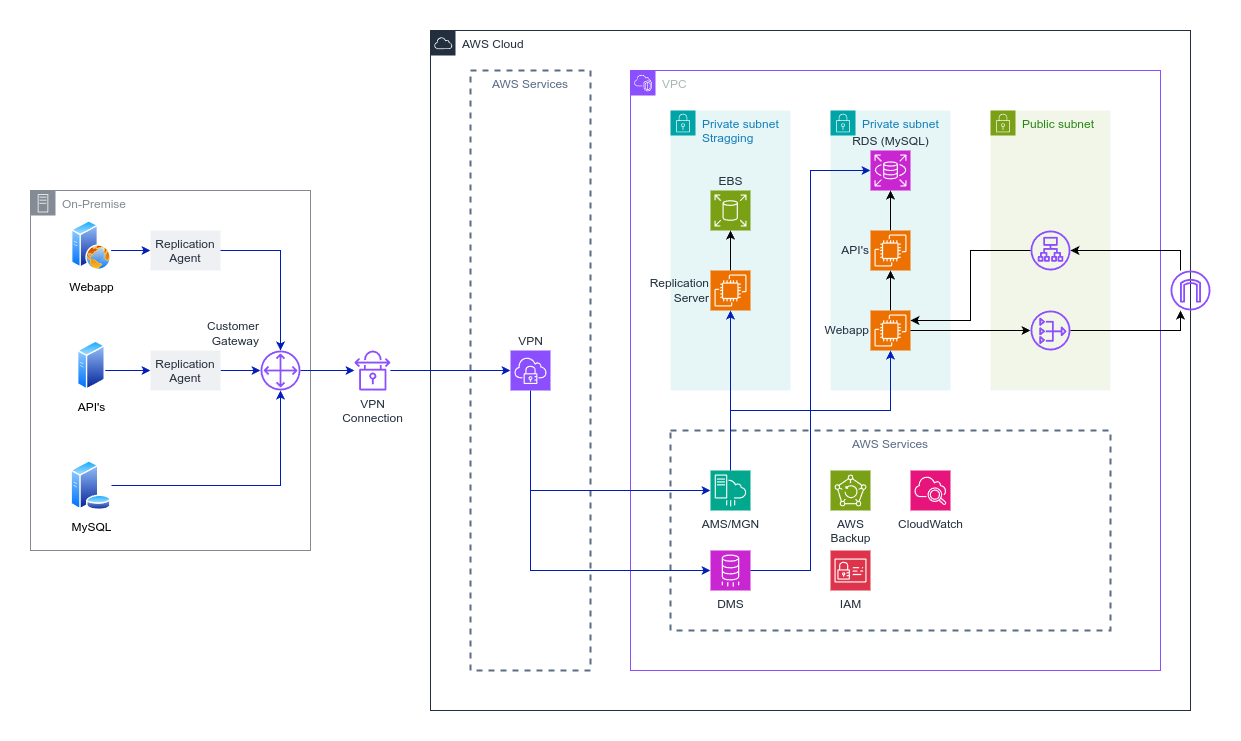
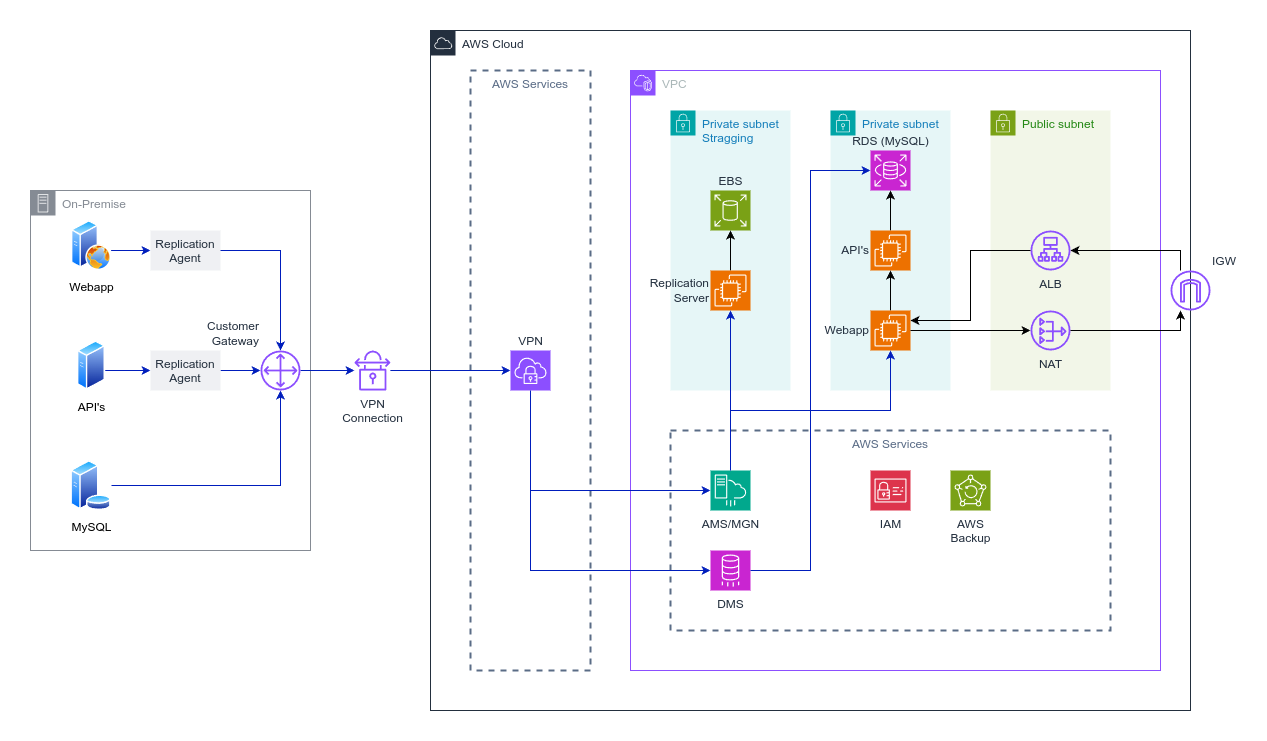
feat: adiciona nova image e parte inicial da modernização

diff --git a/README.md b/README.md
@@ -84,16 +84,15 @@ Análise e comparação dos serviços utilizando na empresa com as oferencidas p
 |                    <img src="https://icon.icepanel.io/AWS/svg/Database/RDS.svg" width="40">                    | RDS (MySQL)   | Servidor 2 (Banco de Dados) |
 | <img src="https://icon.icepanel.io/AWS/svg/Networking-Content-Delivery/Elastic-Load-Balancing.svg" width="40"> | Load Balancer | Servidor 3 (Nginx)          |
 
-Serviços extras:
+#### Serviços extras:
 
 |                                                       -                                                       | Serviços                                                     |
 | :-----------------------------------------------------------------------------------------------------------: | ------------------------------------------------------------ |
 | <img src="https://icon.icepanel.io/AWS/svg/Security-Identity-Compliance/IAM-Identity-Center.svg" width="40">  | IAM                                                          |
 |            <img src="https://icon.icepanel.io/AWS/svg/Storage/Elastic-Block-Store.svg" width="40">            | EBS                                                          |
 | <img src="https://icon.icepanel.io/AWS/svg/Networking-Content-Delivery/Virtual-Private-Cloud.svg" width="40"> | VPC <br> <sub>+ Subnets, Route Table e Security Groups</sub> |
-|         <img src="https://icon.icepanel.io/AWS/svg/Management-Governance/CloudWatch.svg" width="40">          | CloudWatch                                                   |
 
-Serviços que serão utilizados durante a migração:
+#### Serviços que serão utilizados durante a migração:
 
 |                                                      -                                                       | Serviço                             |
 | :----------------------------------------------------------------------------------------------------------: | ----------------------------------- |
@@ -102,13 +101,33 @@ Serviços que serão utilizados durante a migração:
 |       <img src="https://icon.icepanel.io/AWS/svg/Database/Database-Migration-Service.svg" width="40">        | Database Migration Service (DMS)    |
 | <img src="https://icon.icepanel.io/AWS/svg/Migration-Transfer/Application-Migration-Service.svg" width="40"> | Application Migration Service (MGN) |
 
-Diagrama de Migração:
+#### Diagrama de Migração:
 
 <div align="center">
 
 ![Diagrama da Migração](./assets/AWS-Migration.png)
 
 </div>
+
+#### Custo total (Migração)
+
+|                                                      -                                                       | **Serviço**            | **Custo (3 dias)**        |
+| :----------------------------------------------------------------------------------------------------------: | ---------------------- | ------------------------- |
+|                   <img src="https://icon.icepanel.io/AWS/svg/Compute/EC2.svg" width="40">                    | AWS EC2 – Webapp       | ~ 0.88 USD                |
+|                   <img src="https://icon.icepanel.io/AWS/svg/Compute/EC2.svg" width="40">                    | AWS EC2 – API's        | ~ 1.76 USD                |
+|       <img src="https://icon.icepanel.io/AWS/svg/Database/Database-Migration-Service.svg" width="40">        | AWS DMS (1 instância)  | ~ 16.62 USD               |
+| <img src="https://icon.icepanel.io/AWS/svg/Migration-Transfer/Application-Migration-Service.svg" width="40"> | AWS MGN (2 servidores) | ~ 3.02 USD                |
+|      <img src="https://icon.icepanel.io/AWS/svg/Networking-Content-Delivery/Client-VPN.svg" width="40">      | VPN Site-to-site       | ~ 1.00 USD                |
+|                  <img src="https://icon.icepanel.io/AWS/svg/Storage/Backup.svg" width="40">                  | AWS Backup             | ~ 0.32 USD                |
+|           <img src="https://icon.icepanel.io/AWS/svg/Storage/Elastic-Block-Store.svg" width="40">            | RDS (MySQL) **\*\*\*** | ~ 38.74 USD               |
+|                                                      -                                                       | TOTAL                  | **62.34 USD** (20.78/dia) |
+
+> Link para a estimativa: [Migração para AWS](https://calculator.aws/#/estimate?id=d3e50068894fc34fd0ad490c0defd9aeaf010520).
+
+> [!NOTE]
+>
+> - Os custos foram estimados com base no plano **on-demand** de 1 ano.
+> - Região utilizada: **US East (N. Virginia/us-east-1)**.
 
 ### Preparação
 
@@ -132,6 +151,32 @@ Diagrama de Migração:
 | **AWS DMS (Database Migration Service)** | Utilização do **AWS DMS (Database Migration Service)** para migração do banco de dados MySQL do ambiente local para a AWS. |
 
 ## Modernização
+
+A modernização será realizada em três fases:
+
+1. Containerização das Aplicações
+
+   - Containerizar APIs e Frontend utilizando Docker.
+   - Criar Dockerfiles para cada serviço e definir as dependências.
+
+2. Orquestração e Deploy no Amazon EKS
+
+   - Criar um Cluster Amazon **EKS** para gerenciar os containers.
+   - Definir manifests **Kubernetes** _(Deployments, Services, ConfigMaps, Secrets, Ingress)_.
+   - Configurar um **Application Load Balancer (ALB)** para gerenciar o tráfego HTTP/HTTPS.
+   - Habilitar **Auto Scaling** para escalar automaticamente os pods conforme a demanda.
+
+3. Armazenamento e Persistência
+
+   - Migrar arquivos estáticos para o **S3** com **CloudFront** para distribuição rápida.
+   - Utilizar **RDS MySQL** (Multi-AZ) para garantir tolerância a falhas.
+   - Implementar **EFS** caso seja necessário um sistema de arquivos compartilhado entre os pods.
+
+### Segurança e Compliance
+
+- Controle de acesso com **IAM** e **Security Groups**.
+- Segurança na rede com **AWS WAF**, **Shield** e regras de **VPC**.
+- Criptografia de dados com **S3**, **RDS** e **Secrets Manager**.
 
 ## Referências
 
